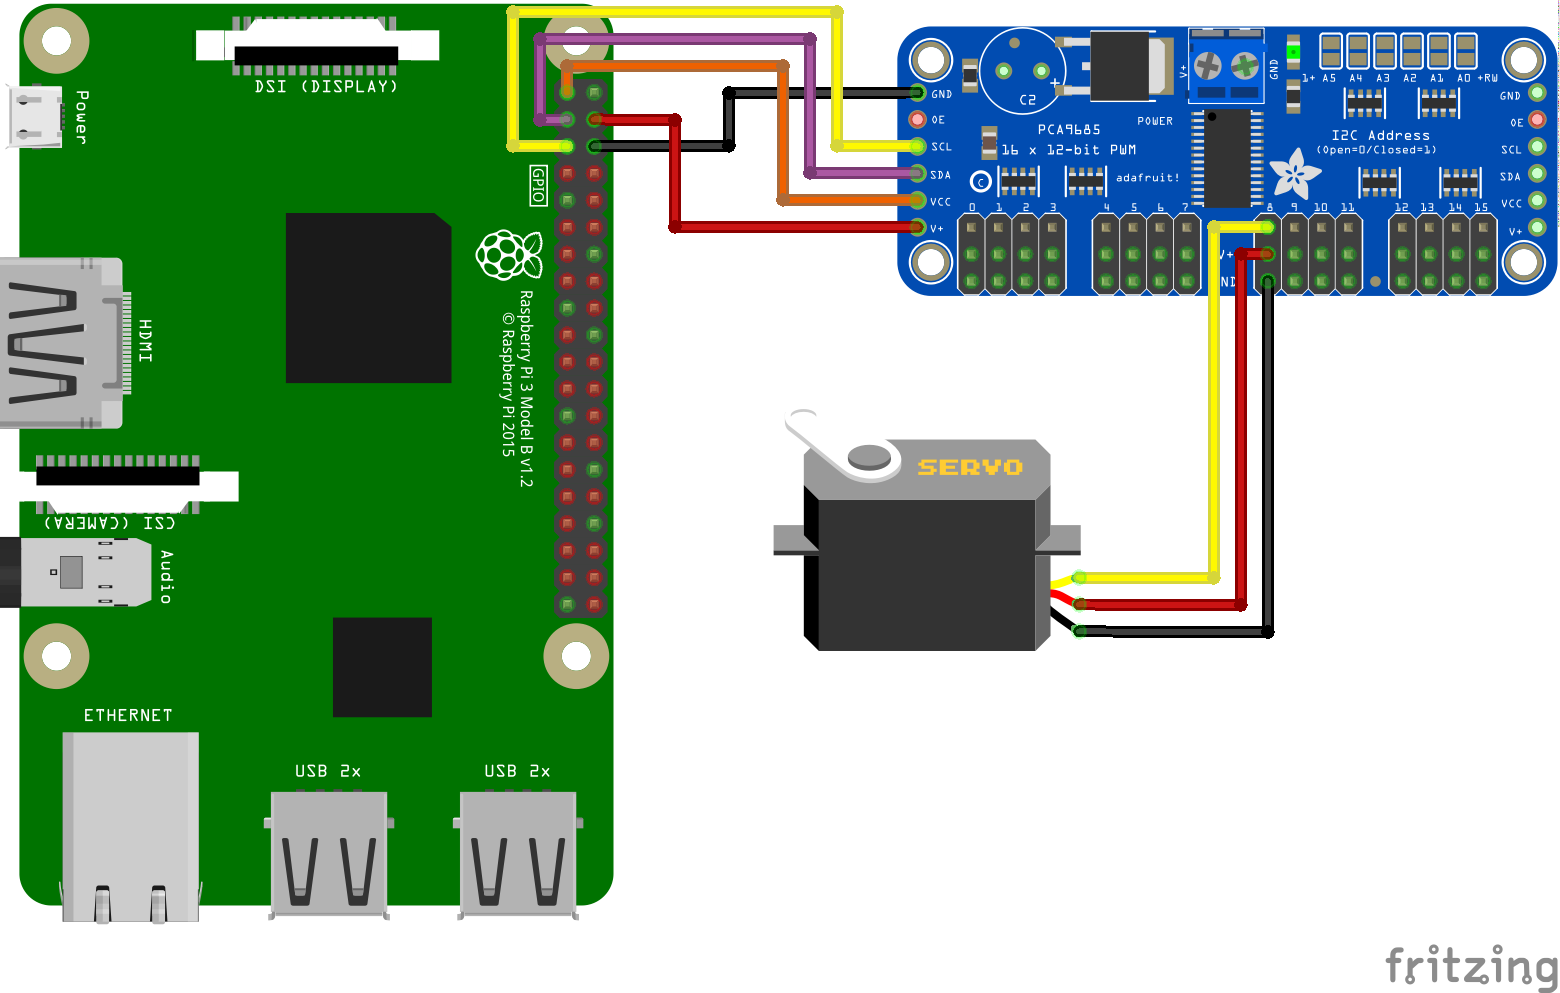
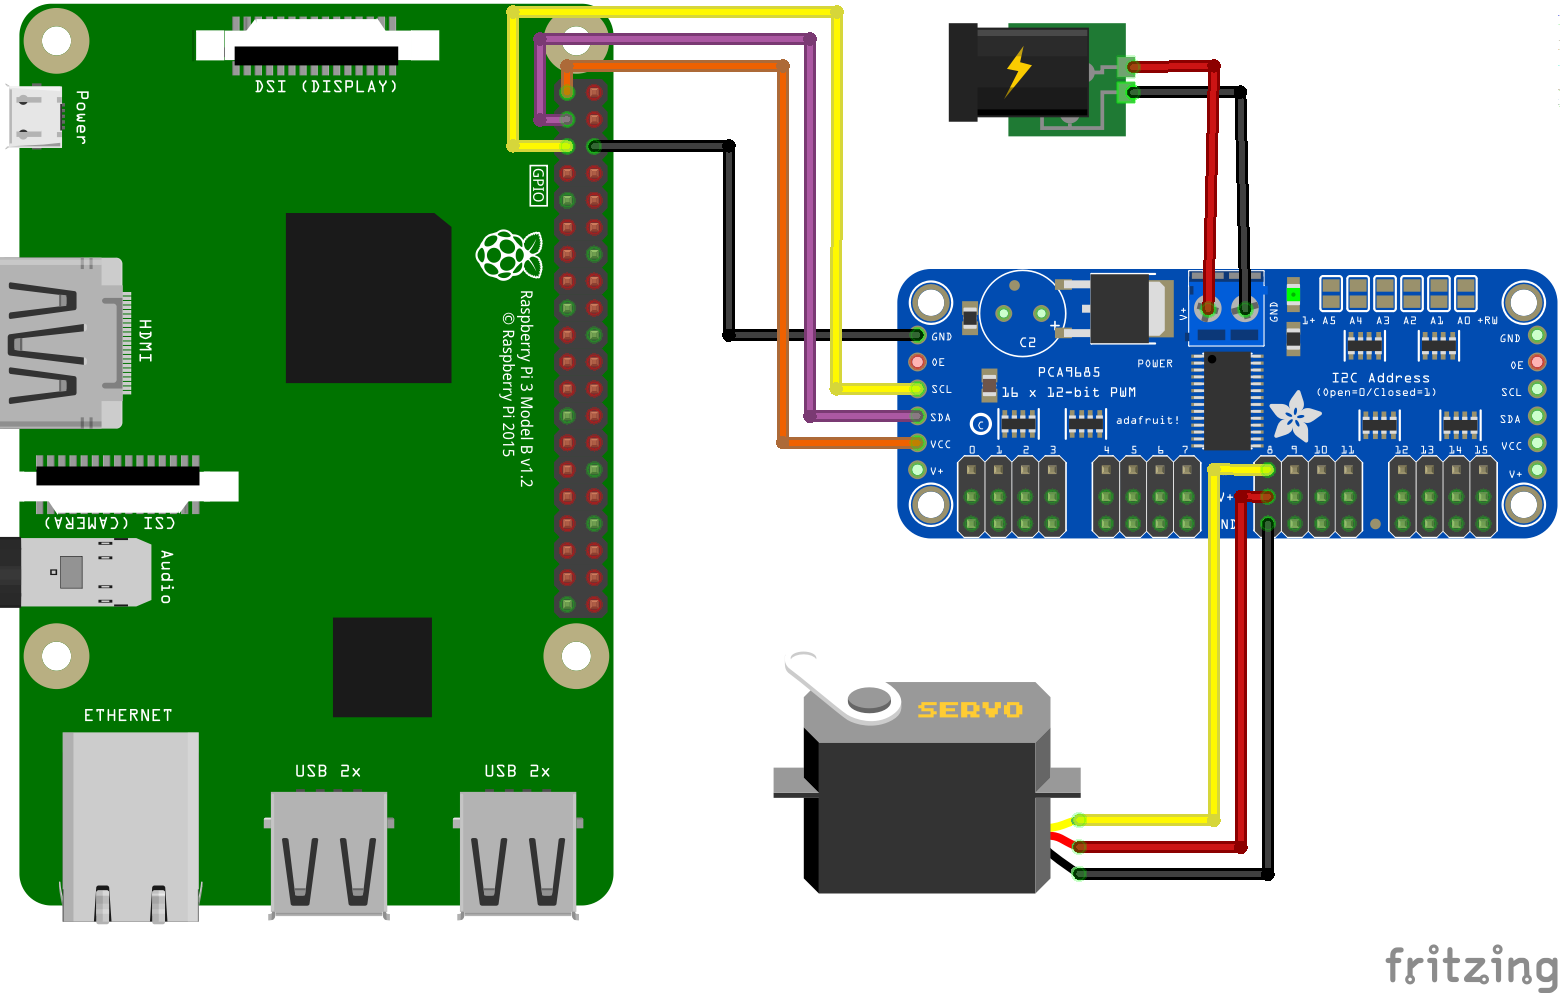
update diagram to not power servo from RPi

Changed region(s): [[0.3692, 0.0, 1.0, 0.9053]]

diff --git a/pca9685/README.md b/pca9685/README.md
@@ -26,7 +26,7 @@ dependencies {
 ### Sample usage
 
 ```java
-import nz.geek.android.things.driver.pca9685.pca9685;
+import nz.geek.android.things.driver.pca9685.Pca9685;
 
 // Access PWM controller:
 Pca9685 pca9685;
